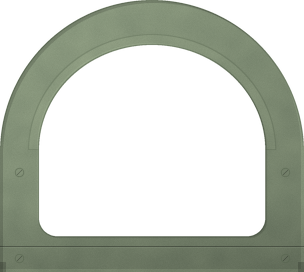
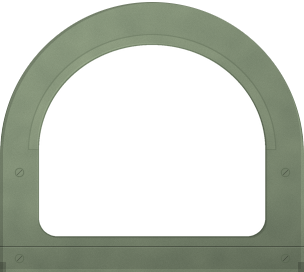
Pods masters: Incubator ready light up, chamber front trimmed to the arch, dome-back note

diff --git a/art/station-masters/pods/tools/status.py b/art/station-masters/pods/tools/status.py
@@ -47,8 +47,6 @@ AD_RECORDS = {
  "base-336x96": ('signed', 'art director, verdict (d09acb12; palette and tick fixes)', "signed (art director) at 1x, opaque pixels: L* 60.0, key R-B 35, sat 24; the 1 px tick at (219-220, 72-78) filled from its neighbours; the sand housing, matte, plaque plate and foot line at the spec's rects"),
  "dome-back-304x272": ('signed', 'art director, verdict (5238569a)', 'signed (art director) at 1x, opaque pixels: L* 65.7, key R-B 101, sat 48 against the chamber rule (key R-B >= 70, sat 45-60); a plain warm matte inner wall with the lamp; the one window 226 wide'),
  "dome-inside-standby-304x272": ('signed', 'art director, verdict (5238569a)', 'signed (art director) at 1x, opaque pixels: L* 60.3, key R-B 94, sat 48, a step below growing'),
- "dome-inside-ready-304x272": ('signed', 'art director, verdict (5238569a)', 'signed (art director) at 1x, opaque pixels: L* 62.8, key R-B 88, sat 47'),
- "dome-front-304x272": ('signed', 'art director, verdict (5238569a)', "signed (art director) at 1x, opaque pixels: L* 53.6, key R-B 12, sat 18; the sage housing at 304 on the radius-152 arch with the stage's rendering (lit top-left edge, shade, four screws, hairline seam), hood lip, no highlight"),
  "plate-name-88x24": ('signed', 'art director, verdict (5238569a)', 'signed (art director) at 1x: L* 57.2, key R-B -22, sat 15, as the signed plate-name 9-slice it is cut from'),
  "chamber-back-400x320": ('signed', 'art director, verdict (72561d74)', "signed (art director) at 1x: L* 38.1, key R-B 36, sat 29 against the stage 36.0/38/24; the work tray in the stage's rendering (rim lit top-left, shaded lower-right, inner shadow, four screws); the founder fills most of it"),
  "chamber-front-400x320": ('signed', 'art director, verdict (72561d74)', "signed (art director) at 1x, opaque pixels: L* 55.6, key R-B 38, sat 25; the tray's front lip over the founder's feet"),
@@ -56,6 +54,8 @@ AD_RECORDS = {
  "dome-small-front-176x224": ('signed', 'art director, verdict (72561d74)', "signed (art director) at 1x, opaque pixels: L* 54.1, key R-B 13, sat 18; the signed chamber's housing reduced to 176"),
  "nest-208x48": ('signed', 'art director, verdict (38affaae)', 'signed (art director) at 1x, opaque pixels: L* 30.1, sat 59; the moss bed, plump, its hollow visible, defringed (no pixel above R+G+B 480)'),
  "nest-front-208x48": ('signed', 'art director, verdict (38affaae)', "signed (art director) at 1x, opaque pixels: L* 25.5, sat 61; the bed's front rim fibres, defringed"),
+ "dome-inside-ready-304x272": ('signed', "art director, verdict (Station lead's hand fixes)", "signed (art director) at 1x, opaque pixels: L* 68.7 against growing (dome-back) 65.8 and standby 60.3, so ready is the brightest; rebuilt from dome-back with cream #fff4a6 screened on (t 0.07), the lamp's 582 pixels untouched; 30 percent above L* 70 by design: the ready light the spec asks for, exempt from the glow rule"),
+ "dome-front-304x272": ('signed', "art director, verdict (Station lead's hand fixes)", 'signed (art director) at 1x, opaque pixels: L* 53.6, key R-B 12, sat 18; trimmed to the radius-152 arch on (152, 154) with coverage edges (1020 px cleared), ink from row 2 (inkTop 2)'),
 }
 
 def sign(n, status, sig, note=""): S[n] = {"status": status, "signed_in": sig, "note": note}

diff --git a/art/station-masters/pods/README.md b/art/station-masters/pods/README.md
@@ -55,9 +55,9 @@ Each slice is named by the register id it replaces (`room`, `ring`, `page`, `tra
 | `cross-wish-hollow-8x8` | 8×8 |  | signed (pass 69 verdict): a hand-drawn master of the Cross splice view, typed pixel by pixel at its size | the overview's hollow wish, 8x8; typed pixel by pixel at this size (pass 69), never scaled; art layer, station.json colours only |
 | `cross-wish-lit-12x12` | 12×12 |  | signed (pass 69 verdict): a hand-drawn master of the Cross splice view, typed pixel by pixel at its size | a pinned trait a child can reach: a four-point glint in yellow with a cream core and an amber shade (also the rail's glint on Cross); typed pixel by pixel at this size (pass 69), never scaled; art layer, station.json colours only |
 | `cross-wish-lit-8x8` | 8×8 |  | signed (pass 69 verdict): a hand-drawn master of the Cross splice view, typed pixel by pixel at its size | the overview's lit wish, 8x8; typed pixel by pixel at this size (pass 69), never scaled; art layer, station.json colours only |
-| `dome-back-304x272` | 304×272 |  | signed (art director, verdict (5238569a)): signed (art director) at 1x, opaque pixels: L* 65.7, key R-B 101, sat 48 against the chamber rule (key R-B >= 70, sat 45-60); a plain warm matte inner wall with the lamp; the one window 226 wide | the chamber's warm interior (a plain lit wall, a small lamp, the moss bed with its hollow), empty, behind the housing (pass 111) |
-| `dome-front-304x272` | 304×272 |  | signed (art director, verdict (5238569a)): signed (art director) at 1x, opaque pixels: L* 53.6, key R-B 12, sat 18; the sage housing at 304 on the radius-152 arch with the stage's rendering (lit top-left edge, shade, four screws, hairline seam), hood lip, no highlight | the chamber's housing and window frame (sage metal, one arched window, the opening cleared), cut from the sheet, scaled uniformly to the dome's 272 rows (pass 111) |
-| `dome-inside-ready-304x272` | 304×272 |  | signed (art director, verdict (5238569a)): signed (art director) at 1x, opaque pixels: L* 62.8, key R-B 88, sat 47 | the interior with its light up toward cream, ready (by hand: a cream light added on the wall and the bed, nothing else changed) (pass 111) |
+| `dome-back-304x272` | 304×272 |  | signed (art director, verdict (5238569a)): signed (art director) at 1x, opaque pixels: L* 65.7, key R-B 101, sat 48 against the chamber rule (key R-B >= 70, sat 45-60); a plain warm matte inner wall with the lamp; the one window 226 wide | the chamber's warm interior (a plain warm matte wall and a small lamp under the hood; the bed is the nest slice), empty, behind the housing (passes 111, 114) |
+| `dome-front-304x272` | 304×272 |  | signed (art director, verdict (Station lead's hand fixes)): signed (art director) at 1x, opaque pixels: L* 53.6, key R-B 12, sat 18; trimmed to the radius-152 arch on (152, 154) with coverage edges (1020 px cleared), ink from row 2 (inkTop 2) | the chamber's housing and window frame (sage metal, one arched window, the opening cleared), cut from the sheet, scaled uniformly to the dome's 272 rows (pass 111) |
+| `dome-inside-ready-304x272` | 304×272 |  | signed (art director, verdict (Station lead's hand fixes)): signed (art director) at 1x, opaque pixels: L* 68.7 against growing (dome-back) 65.8 and standby 60.3, so ready is the brightest; rebuilt from dome-back with cream #fff4a6 screened on (t 0.07), the lamp's 582 pixels untouched; 30 percent above L* 70 by design: the ready light the spec asks for, exempt from the glow rule | the interior with its light up toward cream, ready (by hand: a cream light added on the wall and the bed, nothing else changed) (pass 111) |
 | `dome-inside-standby-304x272` | 304×272 |  | signed (art director, verdict (5238569a)): signed (art director) at 1x, opaque pixels: L* 60.3, key R-B 94, sat 48, a step below growing | the interior with a soft warm pool on the bed (about half a growing glow), standby (pass 111) |
 | `dome-small-back-176x224` | 176×224 | (776, 104, 176, 224) | signed (art director, verdict (72561d74)): signed (art director) at 1x, opaque pixels: L* 66.0, key R-B 102, sat 48; the signed chamber reduced to 176, empty, floor at region y 192 | the small chamber for Create, back: the signed Incubator chamber's back reduced uniformly to 176 wide (scale 0.5789, only ever reduced), set on the 176x224 region with its foot at region y 192, empty (pass 115) |
 | `dome-small-front-176x224` | 176×224 | (776, 104, 176, 224) | signed (art director, verdict (72561d74)): signed (art director) at 1x, opaque pixels: L* 54.1, key R-B 13, sat 18; the signed chamber's housing reduced to 176 | the small chamber for Create, front: the signed Incubator chamber's front reduced uniformly to 176 wide (scale 0.5789, only ever reduced), set on the 176x224 region with its foot at region y 192, empty (pass 115) |
